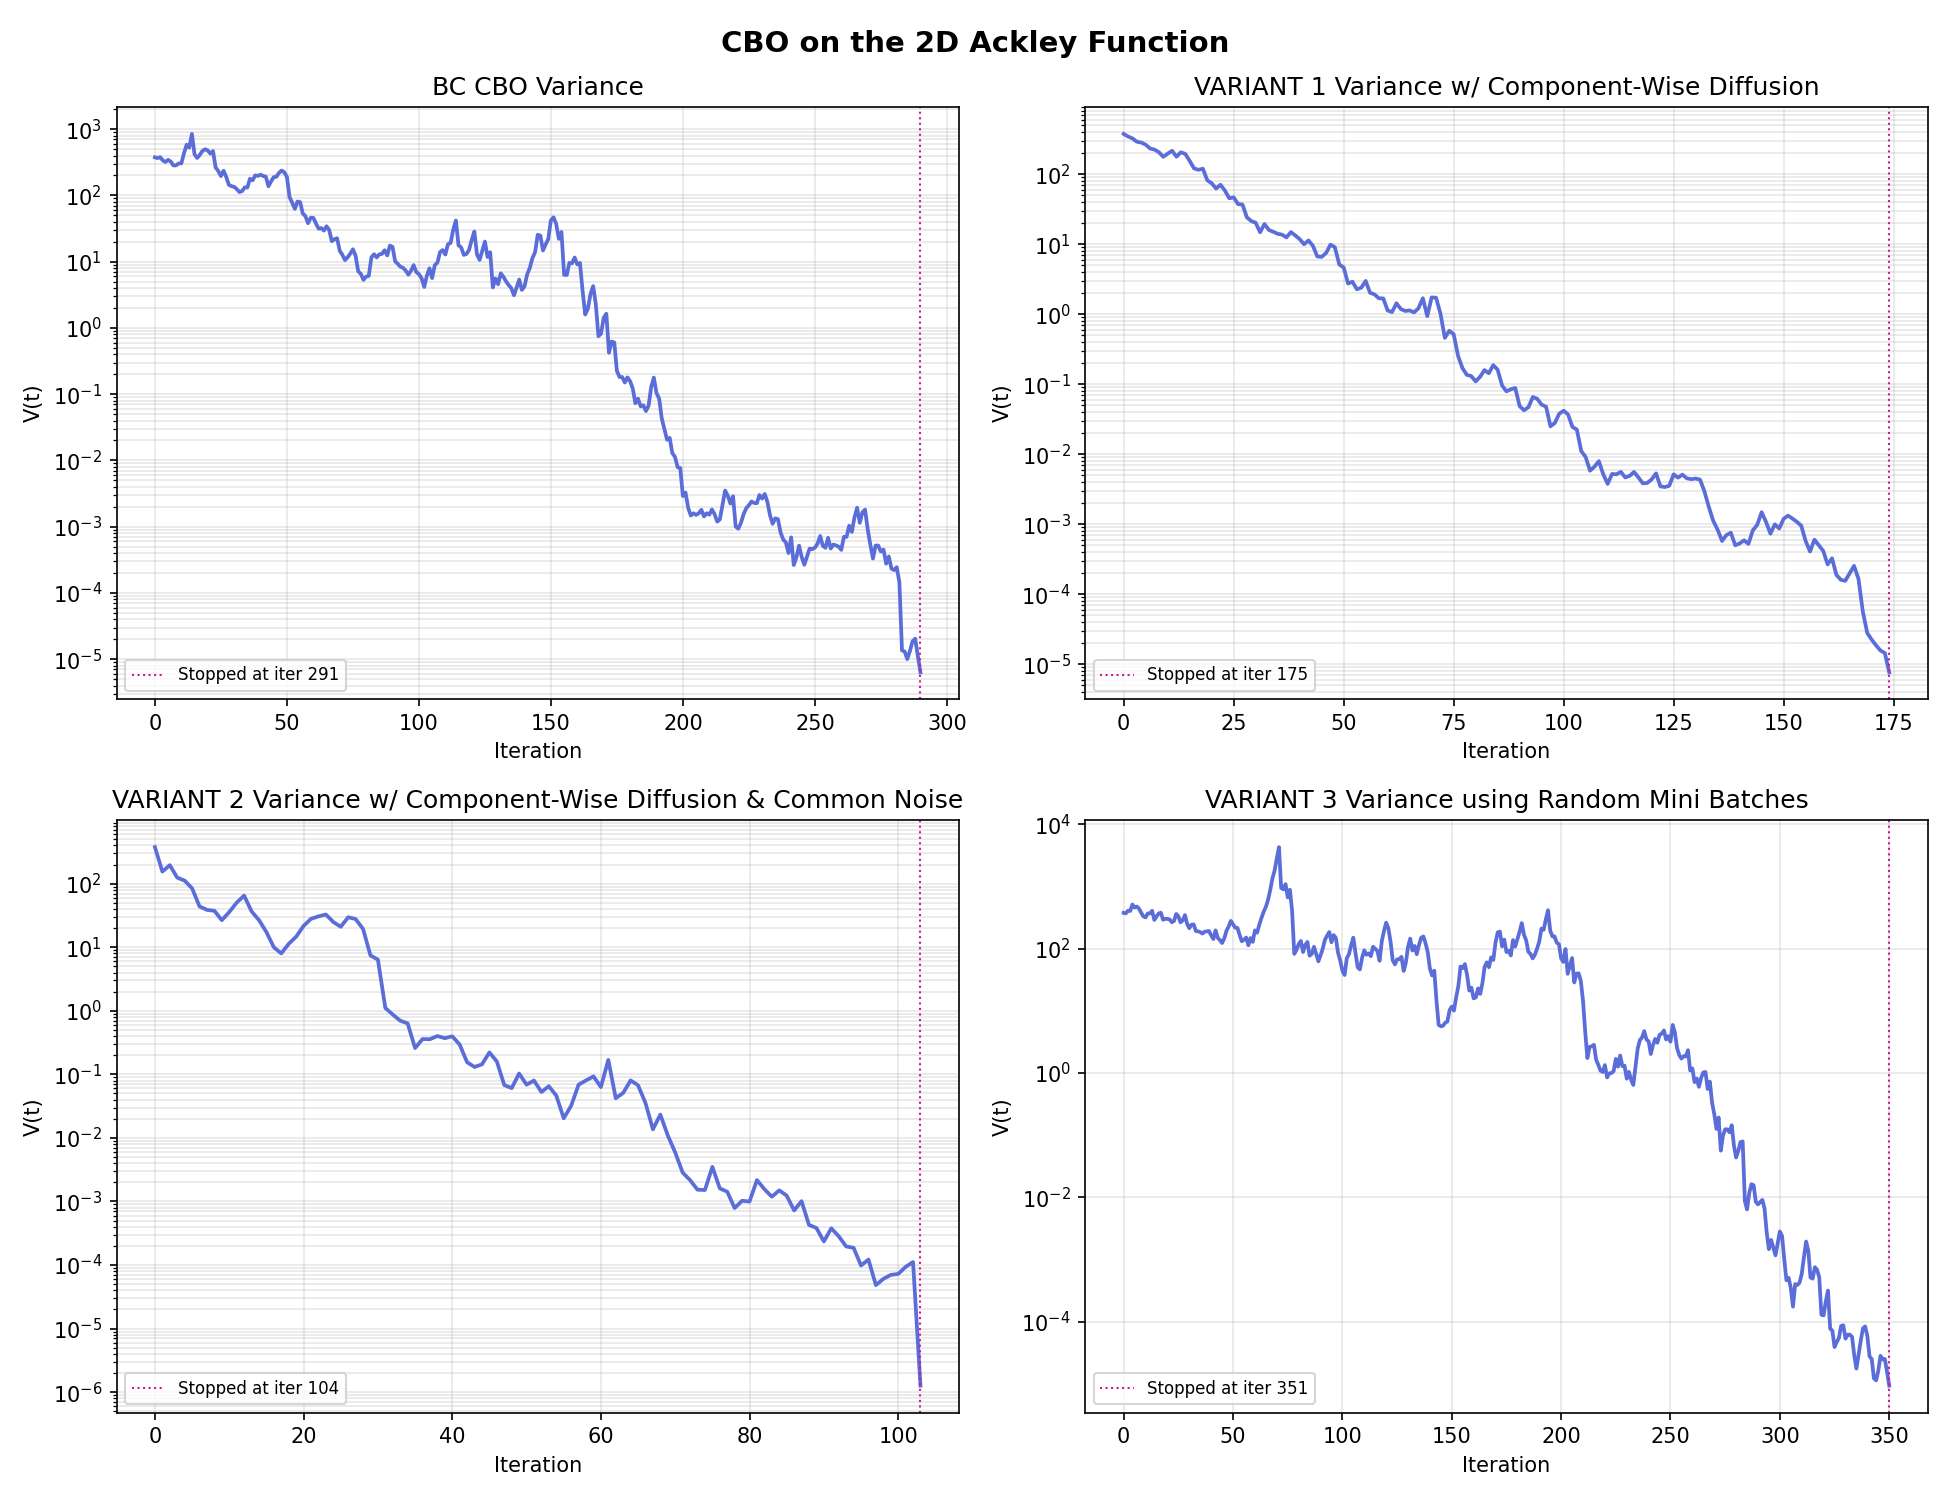
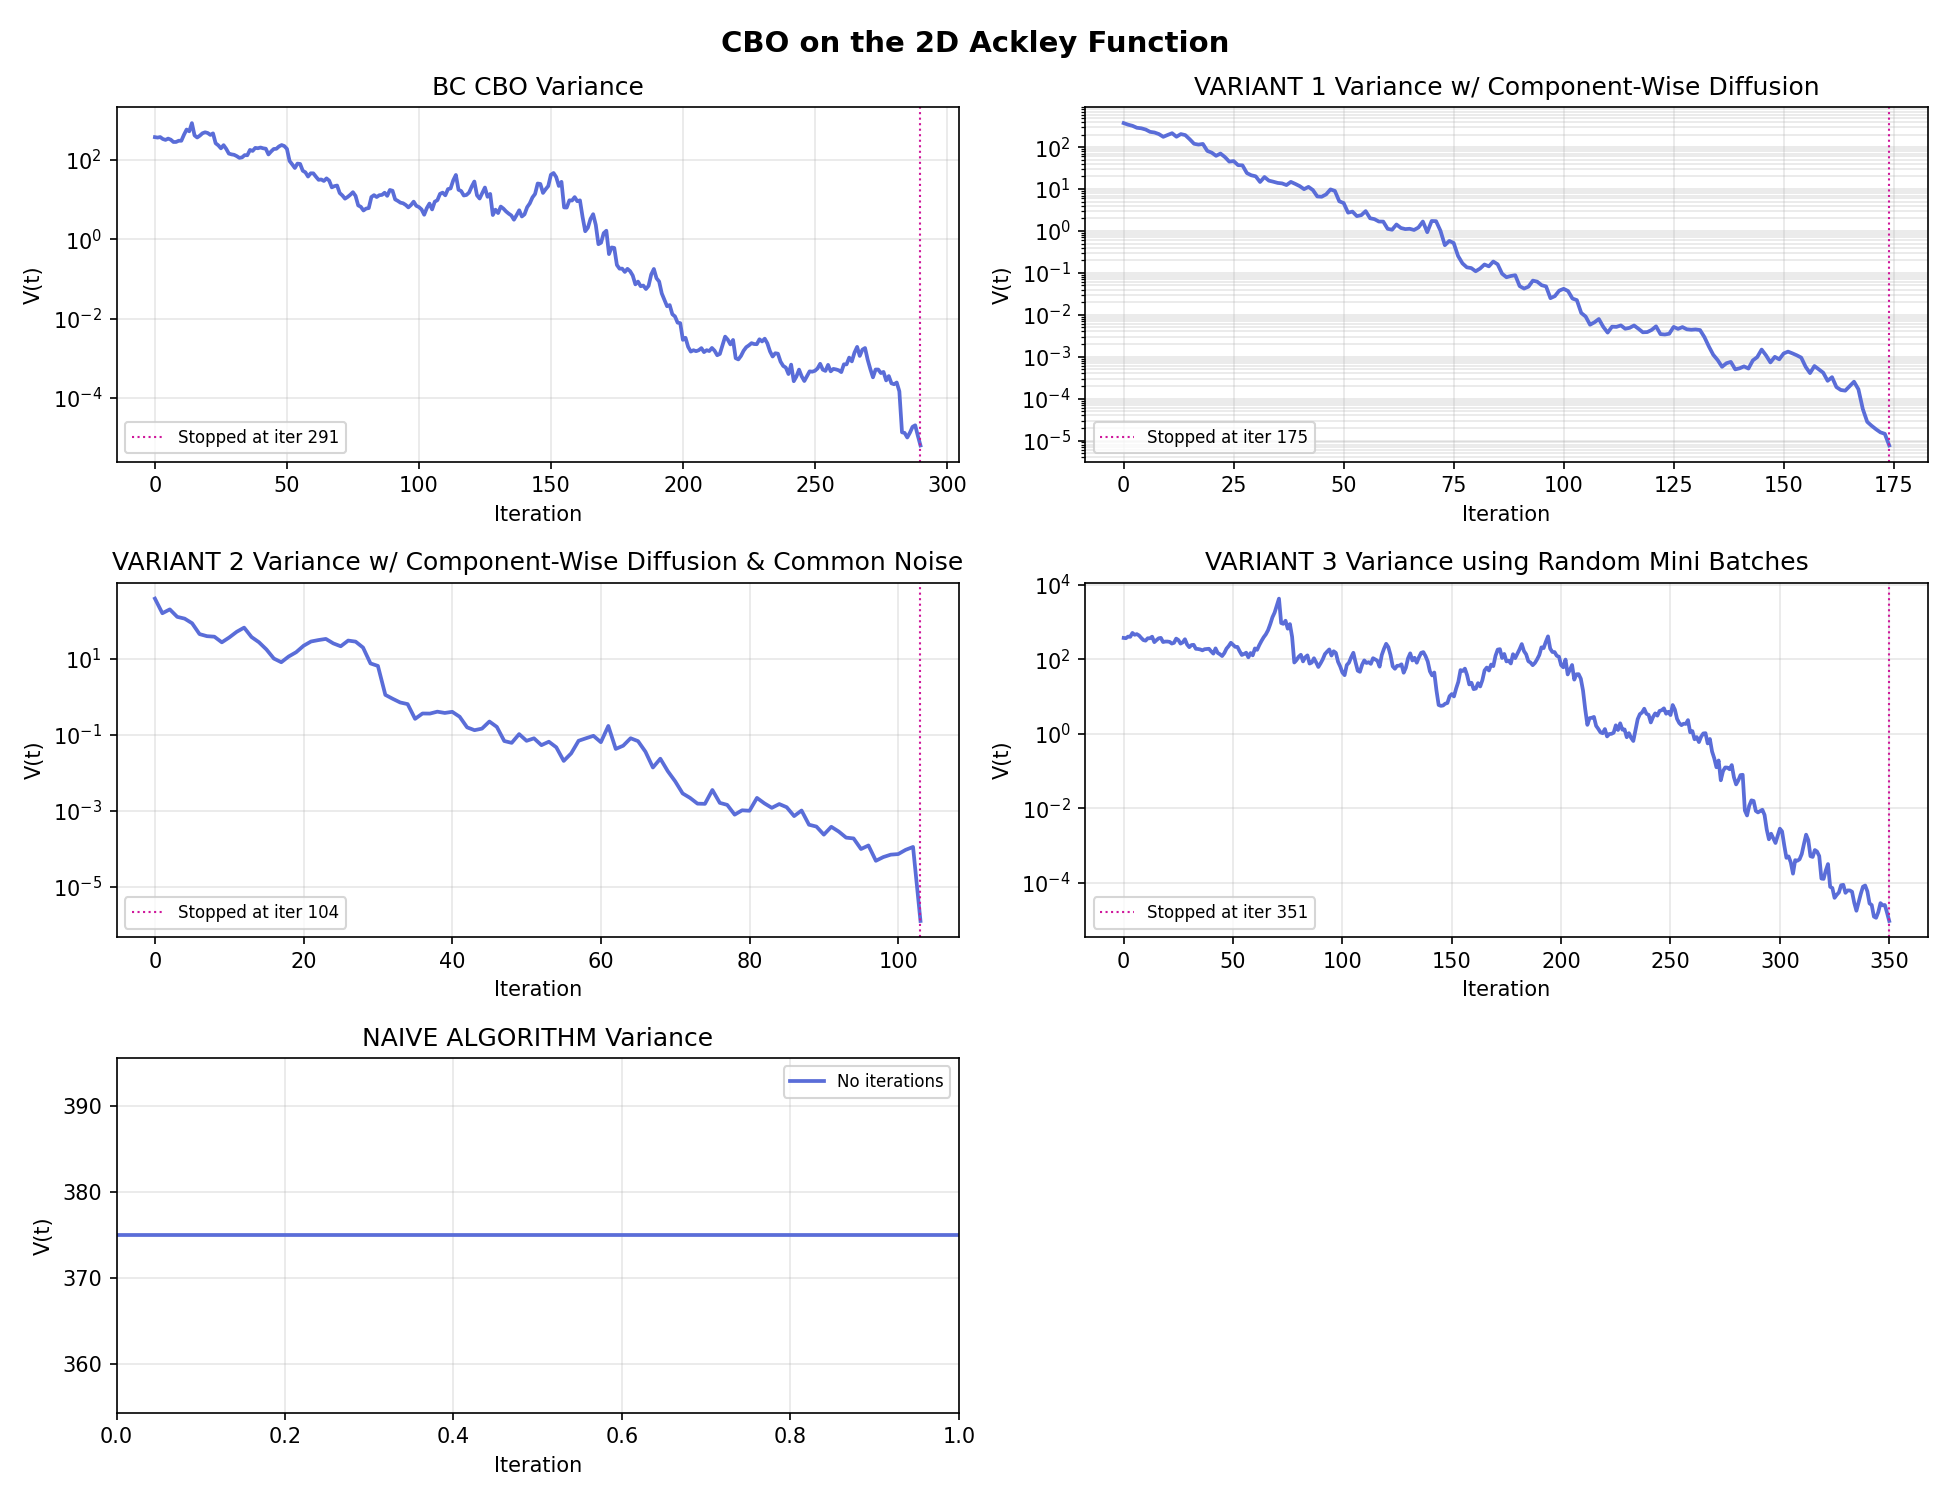
naive algorithm plot updates

diff --git a/variance_plot.py b/variance_plot.py
@@ -2,7 +2,7 @@ import numpy as np
 import matplotlib.pyplot as plt
 import matplotlib.colors as mcolors
 
-from bc_algorithms import ackley, cbo
+from bc_algorithms import ackley, cbo, naive
 from variant_1 import component_wise_diff
 from variant_2 import common_noise
 from variant_3 import random_mini_batch
@@ -15,7 +15,16 @@ def variance_hist(ax, var_hist, n_iters):
     # draw vertical x line at index n_iters-1 to mark when the stopping criterion was met
     ax.axvline(x=n_iters-1, color="#CF179B", linestyle=":", linewidth=1, label=(f"Stopped at iter {n_iters}"))
 
-    ax.set_title("Loss: Variance V(t) over iterations")
+    # ax.set_title("Loss: Variance V(t) over iterations")
+    ax.set_xlabel("Iteration"); ax.set_ylabel("V(t)")
+    ax.legend(fontsize=8)
+    ax.grid(alpha=0.3, which="both")
+
+def variance_naive(ax):
+    best_x, best_val, x_positions, f_vals, n_particles, variance = naive(ackley)
+    # draw horizontal line to compare best_val to other graphs
+    ax.axhline(y=variance, color="#5A6DD8", linestyle="-", linewidth=1.8, label=("No iterations"))
+    ax.set_title("NAIVE ALGORITHM Variance")
     ax.set_xlabel("Iteration"); ax.set_ylabel("V(t)")
     ax.legend(fontsize=8)
     ax.grid(alpha=0.3, which="both")
@@ -26,16 +35,19 @@ def main():
     fig.suptitle("CBO on the 2D Ackley Function", fontsize=14, fontweight="bold")
 
     # 2x2 figure panels
-    ax1 = fig.add_subplot(2,2,1)
-    ax2 = fig.add_subplot(2,2,2)
-    ax3 = fig.add_subplot(2,2,3)
-    ax4 = fig.add_subplot(2,2,4)
+    ax1 = fig.add_subplot(3,2,1)
+    ax2 = fig.add_subplot(3,2,2)
+    ax3 = fig.add_subplot(3,2,3)
+    ax4 = fig.add_subplot(3,2,4)
+    ax5 = fig.add_subplot(3,2,5)
 
     # plot graphs
     _, _, _, _, _, _, cbo_var_hist = cbo(ackley, d=2, seed=0)
     _, _, _, _, _, _, var1_var_hist = component_wise_diff(ackley, d=2, seed=0)
     _, _, _, _, _, _, var2_var_hist = common_noise(ackley, d=2, seed=0)
     _, _, _, _, _, _, var3_var_hist = random_mini_batch(ackley, d=2, seed=0)
+    _, _, _, _, _, naive_var = naive(ackley)
+
     variance_hist(ax1, cbo_var_hist, len(cbo_var_hist))
     ax1.set_title("BC CBO Variance")
     variance_hist(ax2, var1_var_hist, len(var1_var_hist))
@@ -44,7 +56,7 @@ def main():
     ax3.set_title("VARIANT 2 Variance w/ Component-Wise Diffusion & Common Noise")
     variance_hist(ax4, var3_var_hist, len(var3_var_hist))
     ax4.set_title("VARIANT 3 Variance using Random Mini Batches")
-
+    variance_naive(ax5)
 
     plt.tight_layout()
     plt.savefig("variance_plot.png", dpi=150)

diff --git a/obj_val_plot.py b/obj_val_plot.py
@@ -11,7 +11,7 @@ from variant_3 import random_mini_batch
 # best f(x) found SO FAR over iterations
 def best_obj_val_hist(ax, best_val_hist, best_val):
     # plot x (iteration) and y (obj value)
-    ax.semilogy(best_val_hist, color="#1D9E75", linewidth=1.8)
+    ax.semilogy(best_val_hist, color="#1D9E75", linewidth=1.4)
     # draw horizontal y line to show where run ended up
     ax.axhline(y=best_val, color="#D85A30", linestyle="--", linewidth=1, label=(f"Final best: {best_val:.4f}"))
 
@@ -23,7 +23,7 @@ def best_obj_val_hist(ax, best_val_hist, best_val):
 # best f(x) during each iteration
 def obj_val_hist(ax, obj_val_hist):
     # plot x (iteration) and y (obj value)
-    ax.semilogy(obj_val_hist, color="blue", linewidth=1.8)
+    ax.semilogy(obj_val_hist, color="blue", linewidth=1.4)
     # draw horizontal y line to show where run ended up
     ax.axhline(y=obj_val_hist[-1], color="#D83030", linestyle="--", linewidth=1, label=(f"Final best: {obj_val_hist[-1]:.4f}"))
 
@@ -34,7 +34,7 @@ def obj_val_hist(ax, obj_val_hist):
 # consensus point history over iterations
 def consensus_hist(ax, consensus_hist):
     consensus_vals = ackley(consensus_hist)
-    ax.semilogy(consensus_vals, color="#06BF15", linewidth=1.8)
+    ax.semilogy(consensus_vals, color="#06BF15", linewidth=1.4)
     # draw horizontal y line to show where run ended up
     ax.axhline(y=consensus_vals[-1], color="#591766", linestyle="--", linewidth=1, label=(f"Final best: {consensus_vals[-1]:.4f}"))
 
@@ -43,9 +43,9 @@ def consensus_hist(ax, consensus_hist):
     ax.grid(alpha=0.3, which="both")
 
 def obj_val_naive(ax):
-    best_x, best_val, x_positions, f_vals, n_particles = naive(ackley)
+    best_x, best_val, x_positions, f_vals, n_particles, variance = naive(ackley)
     # draw horizontal line to compare best_val to other graphs
-    ax.axhline(y=best_val, color="#D85A30", linestyle="--", linewidth=1, label=(f"Best f val: {best_val:.4f}"))
+    ax.axhline(y=best_val, color="#1D9E75", linestyle="-", linewidth=1.4, label=(f"Best f val: {best_val:.4f}"))
     ax.set_title("NAIVE ALGORITHM Best f(x)")
     ax.set_xlabel("Iteration"); ax.set_ylabel("Best f(x) found")
     ax.legend(fontsize=8)

diff --git a/bc_algorithms.py b/bc_algorithms.py
@@ -26,8 +26,12 @@ def naive(f):
     f_vals = f(x)
     best_idx = np.argmin(f_vals) # index of lowest f val
 
+    # Variance history
+    mean = x.mean(axis=0) # expectation: average all part points
+    v = 0.5*np.mean(np.sum((x-mean)**2, axis=1)) # variance
+
     # return best part pos, best obj val, num of iterations
-    return (x[best_idx], f_vals[best_idx], np.array(x), np.array(f_vals), len(f_vals))
+    return (x[best_idx], f_vals[best_idx], np.array(x), np.array(f_vals), len(f_vals), v)
 
 def consensus_point(x, f_vals, alpha):
     weights = np.exp(-alpha*f_vals) # weight function
@@ -116,9 +120,10 @@ if __name__ == "__main__": # runs when this is the main file of this execution
     print("---------------------------------------")
     print("NAIVE ALGORITHM RESULTS")
 
-    best_x_naive, best_val_naive, x_positions_naive, f_vals_naive, n_part_naive = naive(ackley)
+    best_x_naive, best_val_naive, x_positions_naive, f_vals_naive, n_part_naive, variance = naive(ackley)
 
     print(f"Best x position found: {best_x_naive}")
     print(f"Best f(x): {best_val_naive:.6f}")
     print(f"Iterations: 0")
+    print(f"Variance: {variance}")
     print("True minimum: f(0,0) = 0")
